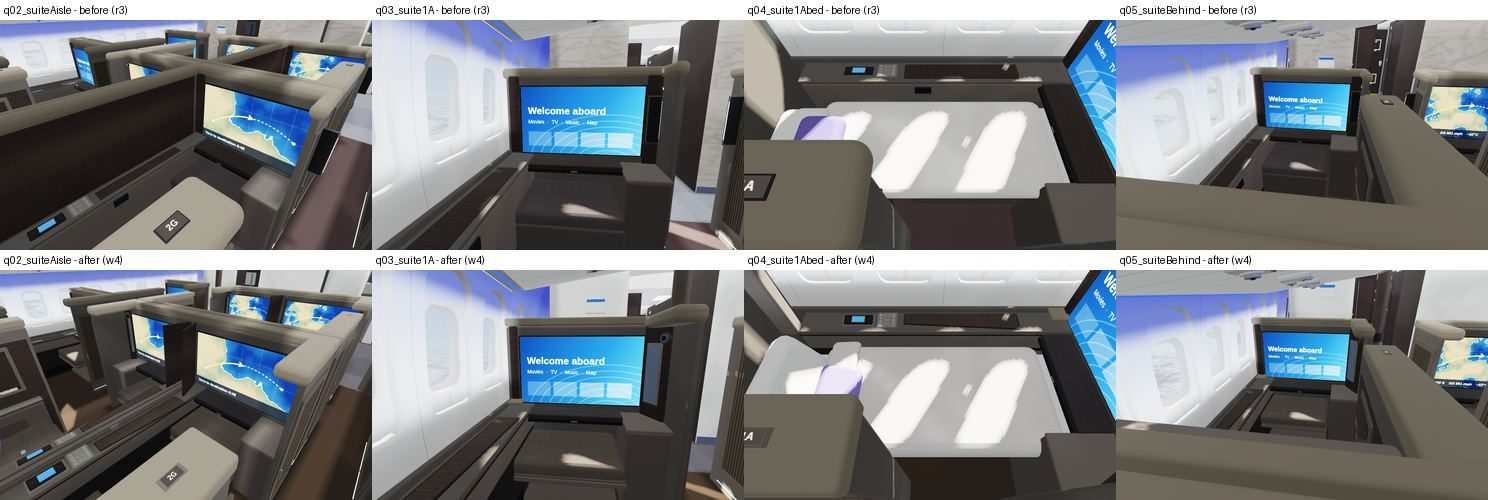
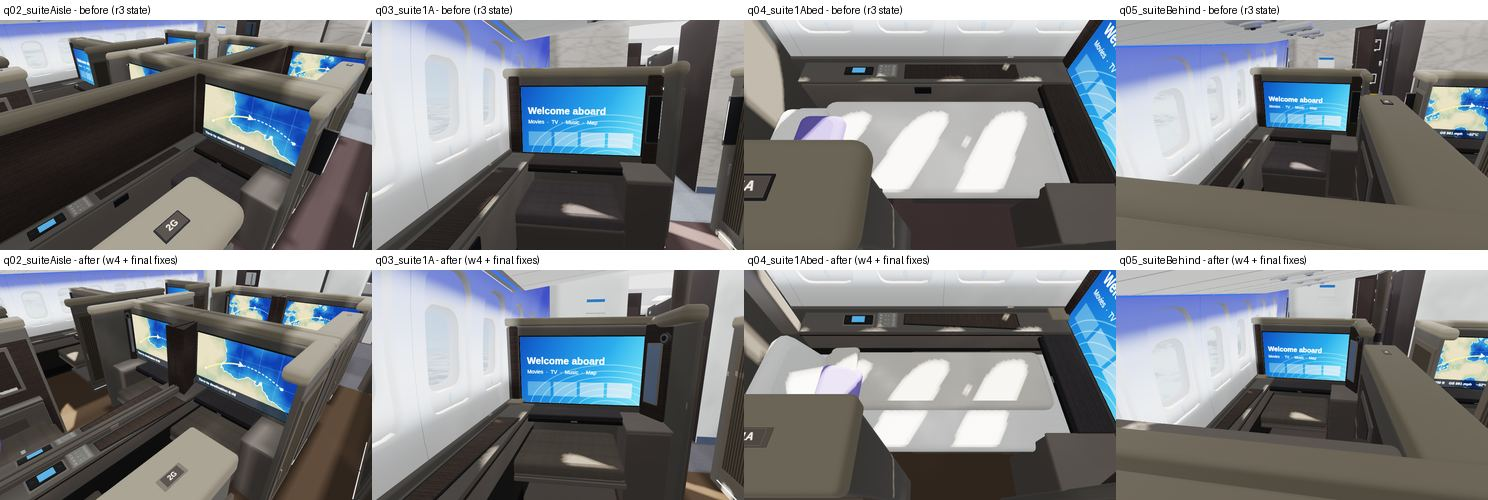
cabin777 suite final: duvet narrower than the pad, offset to the window side, warmer (w4a); report, before/after sheet, w4a rating, questions
Final ratings w4: A 7.8, B 7.8 (no high issues). Suite unit 12.0k tris (was 11.1k).

Claude-Session: https://claude.ai/code/session_01FZE9aqt3Zb6MnPPjPoS6c9

diff --git a/cabin777/src/09d_suite.js b/cabin777/src/09d_suite.js
@@ -218,11 +218,12 @@ function suiteUnit(opts = {}) {
     B.add(gLoft(cushionSecs(SW, 1.96, 0.06, -0.03, { edge: 0.03, r: 0.035, crown: 0.004 }), 3), M4.trs(seatX - 0.01, 0.44, -1.08), { c: '#f0efea', r: 0.9, l: LAYER.fabric });
     B.add(gRBox(ow, 0.44, 0.9, 0.03, 1), M4.trs(ox, 0.22, -1.40), SEATMAT.fInner);
     // white duvet from the pillows to the ottoman, white pillow + lavender pillow (omaat_f57 / f58 / f59, f_17304)
-    B.add(gLoft(cushionSecs(SW + 0.08, 1.55, 0.07, -0.045, { edge: 0.06, r: 0.06, crown: 0.015 }), 3), M4.trs(seatX - 0.01, 0.50, -1.12), { c: '#e2dfd8', r: 0.95, l: LAYER.fabric });
+    // w4: duvet narrower than the pad and offset to the window side, warmer white, so it separates from the pad (omaat_f47) [A]
+    B.add(gLoft(cushionSecs(SW * 0.62, 1.55, 0.07, -0.045, { edge: 0.035, r: 0.05, crown: 0.015 }), 3), M4.trs(seatX - SW * 0.17, 0.50, -1.12), { c: '#d9d4ca', r: 0.95, l: LAYER.fabric });
     // QA r3: not a flat slab - a turned-down top fold across the chest, sides draping over the pad edge, soft crown (w1: the ridge wrinkles read as rings) (omaat_f57 / f58, f_17304) [A]
     if (!lod) {
-      const duv = { c: '#e2dfd8', r: 0.95, l: LAYER.fabric };
-      B.add(gLoft(cushionSecs(SW + 0.07, 0.20, 0.035, -0.0175, { edge: 0.016, r: 0.03, crown: 0.004 }), 3), M4.trs(seatX - 0.01, 0.545, -0.50, 0, 3 * DEG), duv);
+      const duv = { c: '#d9d4ca', r: 0.95, l: LAYER.fabric };
+      B.add(gLoft(cushionSecs(SW * 0.62 + 0.01, 0.20, 0.035, -0.0175, { edge: 0.016, r: 0.03, crown: 0.004 }), 3), M4.trs(seatX - SW * 0.17, 0.545, -0.50, 0, 3 * DEG), duv);
     }
     // w2: pillows propped up against the aft niche, lavender in front (omaat_f46, up_bed_made) [V]
     B.add(gLoft(cushionSecs(0.5, 0.32, 0.13, -0.065, { edge: 0.05, r: 0.05 }), 3), M4.trs(seatX, 0.66, -0.29, 0, -60 * DEG), SEATMAT.pillow);

diff --git a/cabin777/review/qa/suite_report.md b/cabin777/review/qa/suite_report.md
@@ -1,0 +1,77 @@
+# THE Suite (first class): area report
+
+Owned file: `src/09d_suite.js`. Shared edits, all small and local:
+- `SEATMAT` f* values in `src/09_seats.js`.
+- The suite seat plaque in `buildSeats` (09_seats.js).
+
+## Scores
+
+Each round had two independent raters. A is the skeptic; B looks at geometry first.
+
+| round | A | B | ratings |
+|---|---|---|---|
+| r3 (start) | 6.3 (single rater) | | `suite_r3.json` |
+| w1 | 6.1 | 6.4 | `suite_w1a/b.json` |
+| w2 | 6.7 | 7.3 | `suite_w2a/b.json` |
+| w3 | 7.2 | 7.4 | `suite_w3a/b.json` |
+| w4 | 7.8 | 7.8 | `suite_w4a/b.json` (no high-severity issues) |
+
+- The brief allows 4 rounds, so the suite stops at 7.8, below the 8.5 target.
+- Fixes made after the w4 ratings are not rated yet: the solid centre-fin wedge, the forward arm moved outboard, and the duvet separated from the pad.
+- Before/after sheet: `suite_before_after.jpg` (own renders only).
+
+## What changed (commits e93c66f, 7244177, c49334e, 41b5158, 978e39b, 4425808, 6a358b3, 44cf870 and the final commit)
+
+Sources are real in-flight photos in `ref/web/suite/` (79 files, listed in `INDEX.md`; gitignored) plus ANA's real photos f_17313/17314. Every value carries a [V], [D] or [A] comment in the code.
+
+- **Shell:**
+  - Squared, flat-topped caps replace the 0.085 round bullnose (omaat_f7/f5, pb_20).
+  - The forward aisle corner is one thick flat-topped arm (omaat_f4).
+- **Aisle exterior:**
+  - Two equal 0.50 m sliding leaves are parked at either end of a ~0.64 m opening (omaat_f7, up_empty).
+  - Frames are 0.055 and mid-dark, with rounded half-round ribs (pb_20, omaat_f4).
+  - The fixed wardrobe run is dark wood (pb_20).
+  - Ribs are deliberately 15 per leaf against about 22 in reality, because finer ribs alias to moiré [A].
+- **Screen wall:**
+  - The window wing is 0.08 with a rounded top corner, plus a small taupe shelf.
+  - A 60° angled aisle pier (~0.22 wide) carries a grey-rimmed reflective pill mirror and a reading spot (omaat_f10).
+  - A taupe top closes the triangle behind the pier.
+  - The centre suites get a solid dark-wood wedge between the D and G screens (omaat_f3/f4).
+  - The centre-suite mirror stays inside the shell (the r3 bug where it floated in the aisle is fixed).
+- **Window console:**
+  - A taupe fascia sits over a near-black body with a long grille, a bin seam and a trim line (omaat_f7, up_privacy_wall).
+  - The tray insert is tapered warm wood (omaat_f47).
+  - Keypad and handset sit in 12° tilted docks (f_17313).
+  - The outlets pocket was removed: the sockets are inside the bin (omaat_f16).
+- **Seat:**
+  - It is 0.72 wide (34 in, thepointsanalyst). In the 1.10 m centre suite it is capped by the available room at 0.63.
+  - The back is taller and nearly upright (top ~1.14 m, 5°).
+  - The back sits in a lighter taupe niche (jambs plus header) with ~0.075 reading spots, shown off (omaat_f5/f9).
+  - The headrest flap is neutral grey, 1.2× the back, hung from the top edge (omaat_f9).
+  - The leg rest is flush, and the lavender pillow is a plump rectangle.
+- **Ottoman:** a cantilevered cushion on a taupe tray over an open void (omaat_f10, pb_30).
+- **Centre divider:** lowered by default, as in most photos (omaat_f1/f3/f5). `opts.divider = 1` raises it. It has a thin rail with a tab.
+- **Bed:**
+  - The duvet is narrower than the pad, offset to the window side, with a turn-down.
+  - The white pillow is propped up, with the lavender pillow low in front (omaat_f46).
+- **Materials:**
+  - Flap, fabric (warm grey, no mauve), cool table wood, lavender pillow, dark door frames, console body.
+  - The plaque is a flush slot a shade darker than the cap.
+- **Triangles:** the suite unit went from 11.1k to 12.0k (window) and from 11.4k to 11.6k (centre). The far LOD is unchanged at 158.
+
+## Raters who were wrong, or trade-offs made
+
+- **Carpet colour.** The photo gatherer said the carpet was blue-grey. The daylight close-up pb_30 shows brown heather with navy flecks; the blue comes from mood lighting. Reported to shell, now applied.
+- **Mirror.** The photo gatherer said there was no wall mirror. The pill on the pier reflects (omaat_f10, up_forward_look), so it is modelled as a mirror.
+- **Door ribs.** Both raters asked for about 23 ribs per leaf. That is kept at 15 to stop moiré on phones [A].
+- **Pier width from the seat (w4a).** The pier is foreshortened from the seat, because a 1.24 m window suite cannot fit a 0.28 m pier beside a 0.976 m bezel. Left as is.
+
+## Open (other areas / user)
+
+- **Integrator:** tint layer-15 atlas glow by the material colour, so the plaque text glows blue-violet (`from_suite.md` #3).
+- **Lighting:** the suite interior renders about 2× too dark, and the sun patches on the bed are blocky (`from_suite.md`).
+- **User** (`questions_suite.md`):
+  - Centre-suite width. Photos imply ~1.2 m against 1.10 in `05_layout.js`.
+  - A divider toggle.
+  - A closed-door state.
+  - Whether there is one fin or two between the centre screens.

diff --git a/cabin777/review/qa/questions_suite.md b/cabin777/review/qa/questions_suite.md
@@ -10,3 +10,5 @@
    seat card? That lives in 13_app.js, which belongs to the integrator.
 3. **Closed doors.** The doors are always parked open, as when boarding (omaat_f7). Closed doors (pb_20, omaat_f49, roame_20)
    would need an animated leaf mesh plus a seat-card toggle in 13_app.js. Is that wanted?
+4. **Wood between the centre screens.** omaat_f3 / f4 show dark wood between the D and G screens. It is now modelled as one
+   solid wedge (each centre unit builds half). If you know it is two separate angled panels, or one flat panel, say so.
